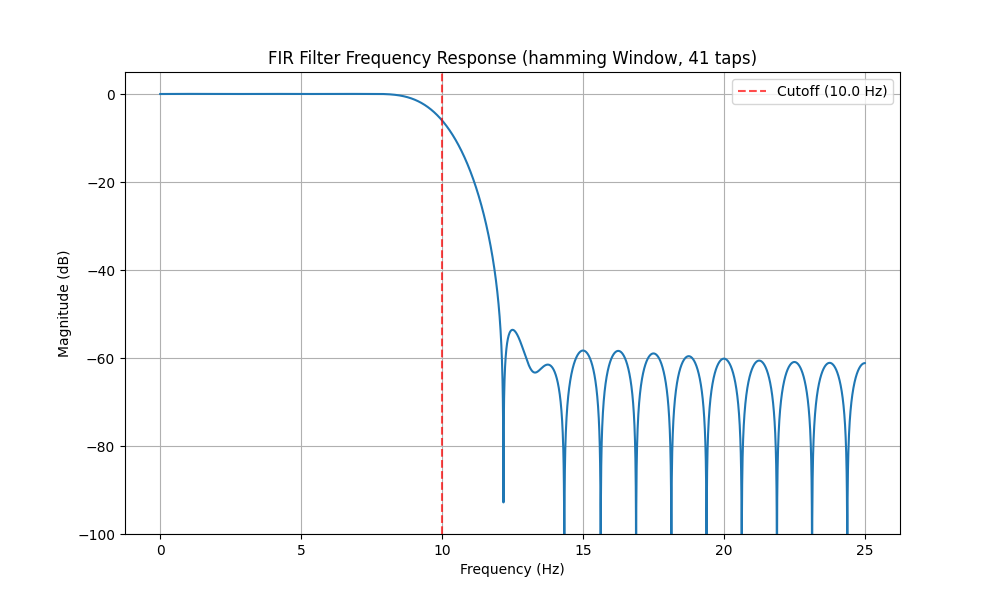
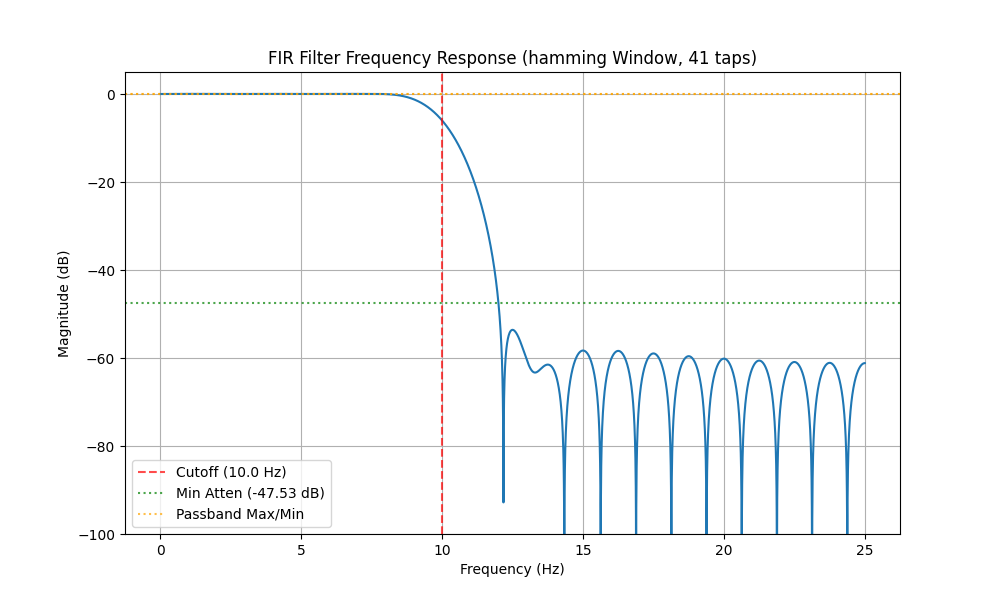
data lengkap

Changed region(s): [[0.155, 0.78, 0.341, 0.87], [0.713, 0.12, 0.899, 0.18]]

diff --git a/analyze_filter.py b/analyze_filter.py
@@ -41,17 +41,58 @@ except Exception as e:
     exit()
 
 # --- 3. Analyze Response --- 
-# (Keep commented out for now)
-# print("Analyzing response characteristics...")
-# ...
+print("Analyzing response characteristics...") # Re-enabled
+
+# Define approximate passband and stopband frequency ranges for analysis
+passband_freq_limit = CUTOFF_FREQ * 0.8 # e.g., up to 8 Hz
+stopband_freq_start = CUTOFF_FREQ * 1.2 # e.g., from 12 Hz
+
+# Recalculate these here for analysis
+frequencies_hz = (w / np.pi) * nyquist
+magnitude_db = 20 * np.log10(np.abs(h))
+
+# Find indices corresponding to these frequency ranges
+passband_indices = np.where(frequencies_hz <= passband_freq_limit)[0]
+stopband_indices = np.where(frequencies_hz >= stopband_freq_start)[0]
+
+# Default values in case analysis fails
+passband_ripple_db = np.nan
+min_attenuation_db = np.nan
+max_passband_db = 0
+min_passband_db = 0
+
+# Passband Ripple Analysis
+if len(passband_indices) > 0:
+    passband_mags_db = magnitude_db[passband_indices]
+    # Check for non-finite values before calculating max/min
+    if np.all(np.isfinite(passband_mags_db)):
+        max_passband_db = np.max(passband_mags_db)
+        min_passband_db = np.min(passband_mags_db)
+        passband_ripple_db = max_passband_db - min_passband_db
+        print(f"- Passband (0-{passband_freq_limit:.1f} Hz):")
+        print(f"  - Max Gain: {max_passband_db:.4f} dB")
+        print(f"  - Min Gain: {min_passband_db:.4f} dB")
+        print(f"  - Approx Passband Ripple: {passband_ripple_db:.4f} dB")
+    else:
+        print("- Passband analysis skipped due to non-finite values.")
+else:
+    print("- Could not analyze passband (no indices).")
+
+# Stopband Attenuation Analysis
+if len(stopband_indices) > 0:
+    stopband_mags_db = magnitude_db[stopband_indices]
+    if np.all(np.isfinite(stopband_mags_db)):
+        min_attenuation_db = np.max(stopband_mags_db) # Max gain = min attenuation
+        print(f"- Stopband ({stopband_freq_start:.1f}-{nyquist:.1f} Hz):")
+        print(f"  - Minimum Attenuation (Max Stopband Gain): {min_attenuation_db:.4f} dB")
+    else:
+        print("- Stopband analysis skipped due to non-finite values.")
+else:
+    print("- Could not analyze stopband (no indices).")
 
 # --- 4. Plot Frequency Response ---
 print("Generating frequency response plot...") # Re-enabled
 try:
-    # Recalculate these for plotting
-    frequencies_hz = (w / np.pi) * nyquist
-    magnitude_db = 20 * np.log10(np.abs(h))
-
     plt.figure(figsize=(10, 6))
     plt.plot(frequencies_hz, magnitude_db)
     plt.title(f'FIR Filter Frequency Response ({WINDOW_TYPE} Window, {NUMTAPS} taps)')
@@ -60,10 +101,12 @@ try:
     plt.ylim(-100, 5) # Adjust y-axis limits
     plt.grid(True, which='both', axis='both')
     plt.axvline(CUTOFF_FREQ, color='red', linestyle='--', alpha=0.7, label=f'Cutoff ({CUTOFF_FREQ} Hz)')
-    # Removed other annotation lines for now
-    # plt.axhline(min_attenuation_db, ...)
-    # plt.axhline(max_passband_db, ...)
-    # plt.axhline(min_passband_db, ...)
+    # Re-enable annotation lines using calculated values
+    if not np.isnan(min_attenuation_db):
+        plt.axhline(min_attenuation_db, color='green', linestyle=':', alpha=0.7, label=f'Min Atten ({min_attenuation_db:.2f} dB)')
+    if not np.isnan(passband_ripple_db):
+        plt.axhline(max_passband_db, color='orange', linestyle=':', alpha=0.7, label=f'Passband Max/Min')
+        plt.axhline(min_passband_db, color='orange', linestyle=':', alpha=0.7)
     plt.legend()
 
     OUTPUT_PLOT_FILE = 'filter_frequency_response.png' # Define here
@@ -72,5 +115,4 @@ try:
 except Exception as e:
     print(f"Error during plotting or saving: {e}") # More specific error message
 
-# print("Filter analysis finished (core calculation only).") # Change back
 print("Filter analysis finished.") 
